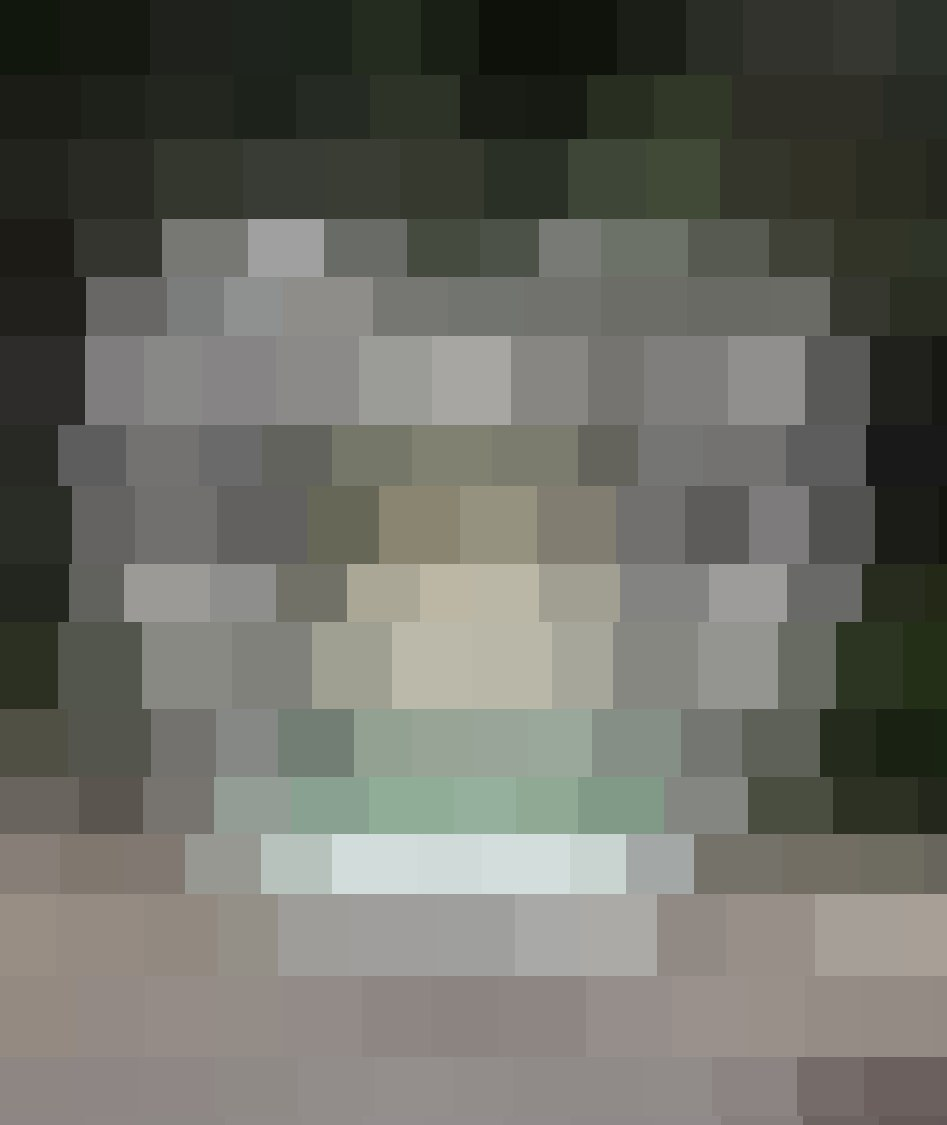
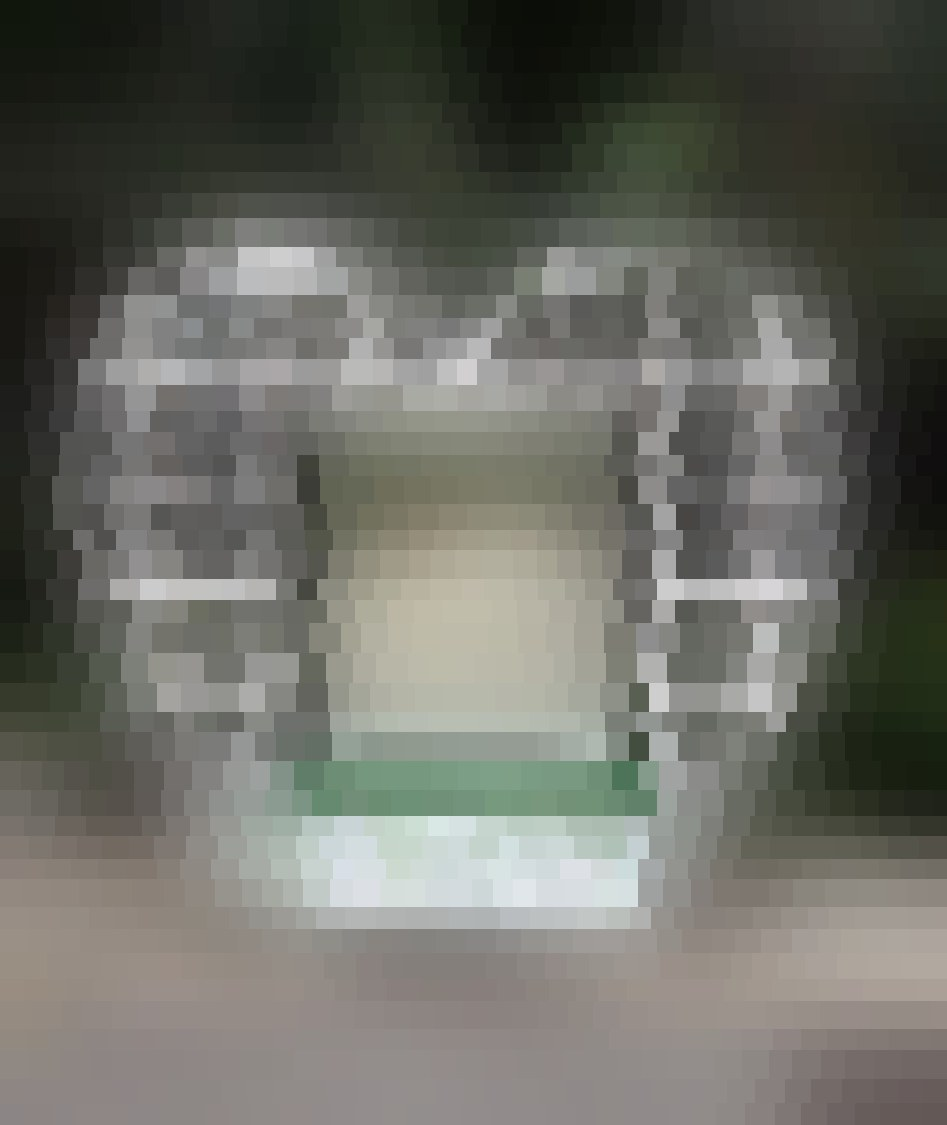
Tone down heart sculpture mosaic so the shape is still guessable
Previous mosaic made the lattice silhouette completely unrecognizable.
Use smaller mosaic blocks so players can still roughly tell it's the
heart-shaped structure from the photo, while fine detail stays hidden.

Claude-Session: https://claude.ai/code/session_01JNSv2zALJDpwVya8qsmDtn

diff --git a/index.html b/index.html
@@ -1391,7 +1391,7 @@ const files = [
    answer:'ROSE',unlockCode:'NULL-Z',unlockSeparator:{char:'-',after:4},answerLen:5,
    content:`<div class="detail-section"><div class="detail-section-title">▶ 사건 일지 — 2025. 06. 25</div><div>"NULL-Z" 그들이 거래하는 약물의 이름이다.<br>무슨 재료로 만드는지는 아직 모르지만..</div></div>
    <div class="detail-section"><div class="detail-section-title">▶ 사건 일지 — 2025. 06. 29</div><div>오늘 N32로부터 메세지와 함께 사진이 왔다.</div></div>
-   <img class="detail-photo" src="assets/file04_heart.jpg?v=6" alt="하트 조형물" onclick="openPhotoZoom('assets/file04_heart.jpg?v=6')">
+   <img class="detail-photo" src="assets/file04_heart.jpg?v=7" alt="하트 조형물" onclick="openPhotoZoom('assets/file04_heart.jpg?v=7')">
    <div class="detail-section"><div>사진의 이 조형물.. 가로등 AB-078 근처에서 봤던 기억이 있다.<br>현장 분석 카메라로 비춰 확인해보자.</div></div>`,
    hints:['MYSTORAGE 화면에서 현장 분석 카메라를 켜서 조형물을 스캔합니다.','확인된 장미를 N32에게 메세지로 전달합니다.'],answerText:'N32로부터 참나무의 위치정보를 얻습니다. (가로등 AB-059)',
    onUnlock:{drug:'NULL-Z',org:'BLANK'}},
